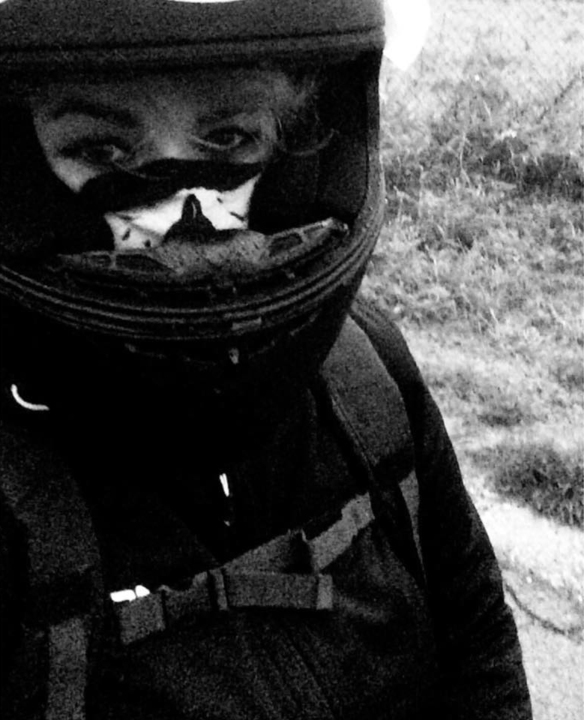
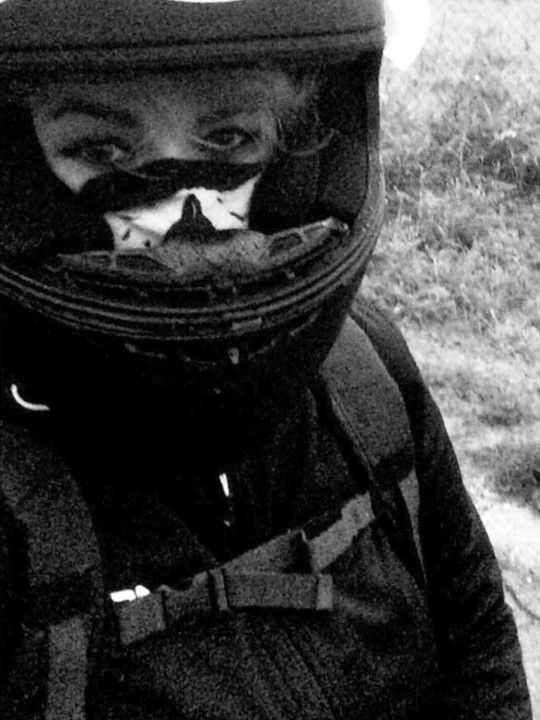
zmiana rozdzielczosci/proporcji zdjec

diff --git a/src/sass/partials/_footer.scss b/src/sass/partials/_footer.scss
@@ -180,7 +180,7 @@ $timing-function: cubic-bezier(0.4, 0, 0.2, 1);
   margin-bottom: 10px;
 
   width: 100%;
-  height: 270px;
+  height: auto;
   border-radius: 10%;
   box-shadow: 5px 5px 11px -2px $grey-second;
 }
